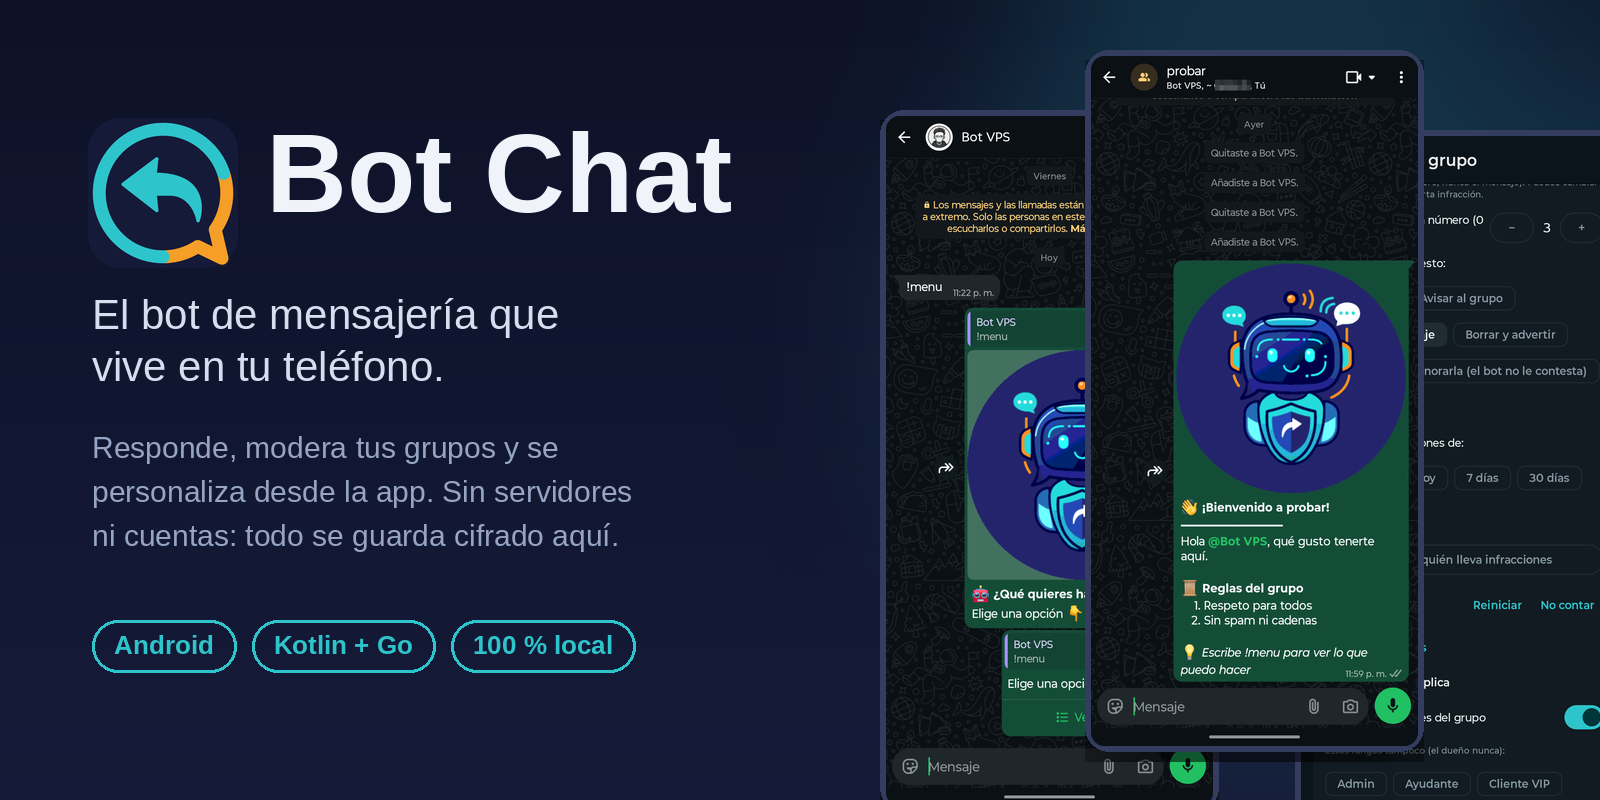
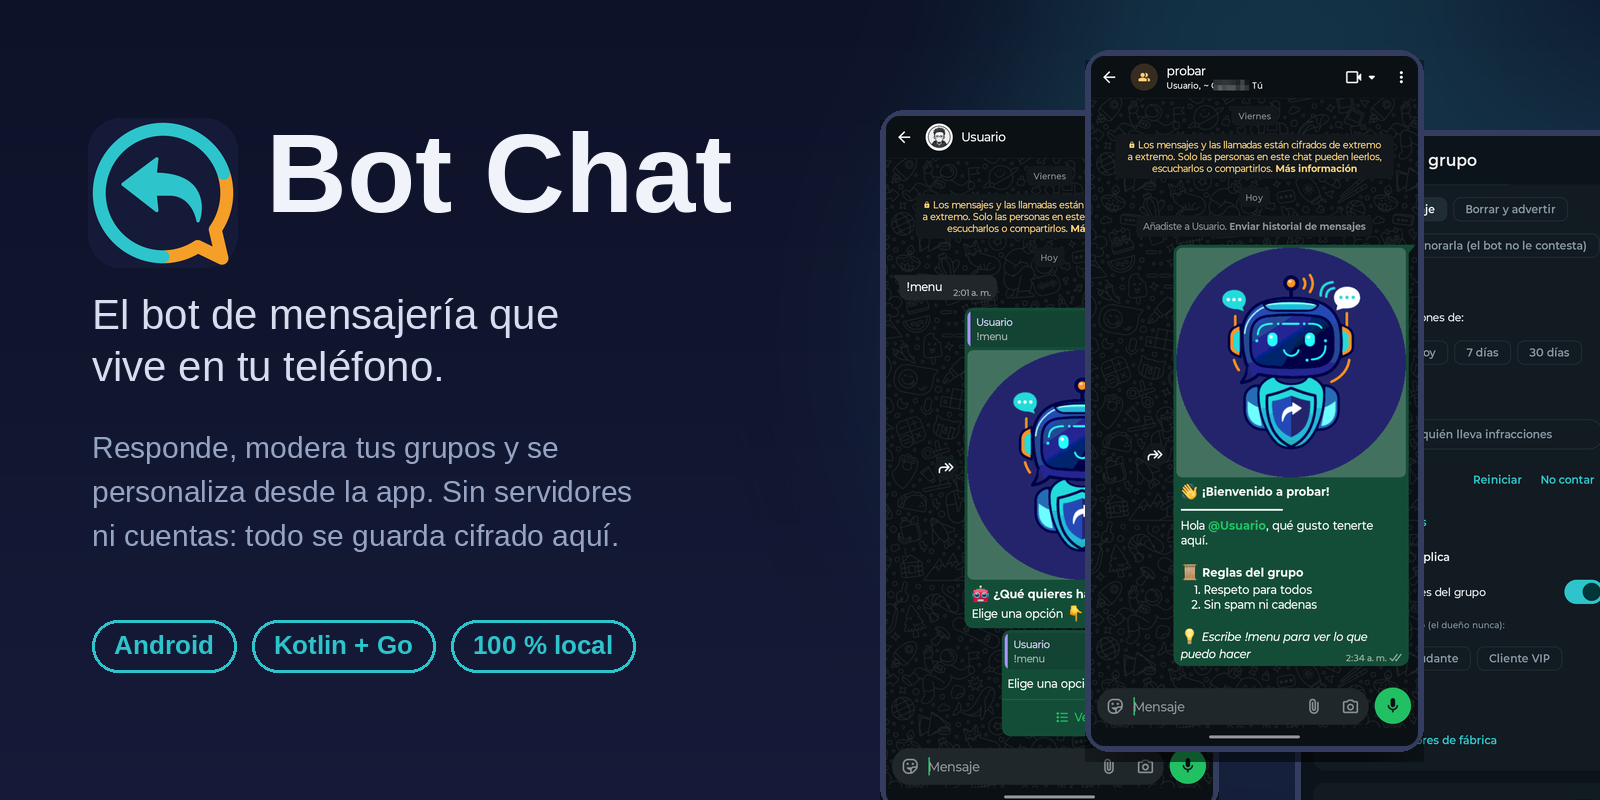
Cambiar nombre de una persona (propio, gana al de la agenda), capturas nuevas del README
- Nombre propio por persona: columna chats.nombre_propio (migración 26), API PersonaNombrePropio, botón «Cambiar nombre» en la ficha y en el perfil del miembro; se usa en la app y en {nombre} de los menús.
- Capturas del README rehechas con el chat limpio por comando, sin barra de estado ni metadatos, y sin las filas con números de otras personas.

Claude-Session: https://claude.ai/code/session_01Bp5Ynt75qnj33Tx8h86Hjt

diff --git a/app/src/main/java/com/botchat/app/ui/PantallaPersona.kt b/app/src/main/java/com/botchat/app/ui/PantallaPersona.kt
@@ -116,6 +116,7 @@ fun TarjetaPersona(botId: Long, jid: String, nombre: String, alAbrirDetalle: () 
                 else OutlinedButton({ haptica(Toque.Suave); dialogo = "silenciar" }, Modifier.testTag("silenciar_persona")) { Text("Ignorar") }
                 if (f.bloqueada) OutlinedButton({ haptica(Toque.Suave); hacer("El bot vuelve a atenderla") { Repo.desbloquearPersona(botId, jid) } }, Modifier.testTag("desbloquear_persona")) { Text("Desbloquear") }
                 else OutlinedButton({ haptica(Toque.Fuerte); dialogo = "bloquear" }, Modifier.testTag("bloquear_persona")) { Text("Bloquear en el bot") }
+                OutlinedButton({ haptica(Toque.Suave); dialogo = "nombre" }, Modifier.testTag("cambiar_nombre_persona")) { Text("Cambiar nombre") }
                 OutlinedButton({ haptica(Toque.Suave); dialogo = "advertir" }, Modifier.testTag("advertir_persona")) { Text("Advertir") }
                 OutlinedButton({ haptica(Toque.Suave); alAbrirDetalle() }, Modifier.testTag("abrir_advertencias_notas")) { Text("Notas y advertencias") }
                 OutlinedButton({ haptica(Toque.Suave); dialogo = "exportar" }, Modifier.testTag("exportar_persona")) { Text("Exportar datos") }
@@ -131,6 +132,7 @@ fun TarjetaPersona(botId: Long, jid: String, nombre: String, alAbrirDetalle: () 
             confirmButton = { TextButton({ dialogo = null; hacer("Listo: el bot la ignora") { Repo.bloquearPersona(botId, jid) } }, Modifier.testTag("confirmar_bloquear")) { Text("Bloquear", color = MaterialTheme.colorScheme.error) } },
             dismissButton = { TextButton({ dialogo = null }) { Text("Cancelar") } },
         )
+        "nombre" -> DialogoNombrePropio(nombre, f?.nombrePropio.orEmpty(), { dialogo = null }) { nuevo -> dialogo = null; hacer(if (nuevo.isBlank()) "Listo: vuelve su nombre de siempre" else "Listo: ahora se llama $nuevo") { Repo.nombrePropio(botId, jid, nuevo) } }
         "advertir" -> DialogoAdvertir(botId, jid, nombre) { dialogo = null; version++ }
         "exportar" -> DialogoExportar(botId, jid, nombre) { dialogo = null }
         "olvidar" -> DialogoOlvidar(botId, jid, nombre, { dialogo = null }, alOlvidada)
@@ -303,5 +305,15 @@ private fun DialogoOlvidar(botId: Long, persona: String, nombre: String, alCerra
             }, Modifier.testTag("confirmar_olvidar"), enabled = entiendo && !trabajando) { Text("Olvidar", color = if (entiendo) MaterialTheme.colorScheme.error else MaterialTheme.colorScheme.onSurfaceVariant) }
         },
         dismissButton = { TextButton(alCerrar, enabled = !trabajando) { Text("Cancelar") } },
+    )
+}
+
+/** Ponerle a una persona el nombre que se verá en toda la app y en los mensajes del bot. Vacío o «Quitar mi nombre» = el de la agenda. */
+@Composable
+internal fun DialogoNombrePropio(nombreActual: String, propio: String, alCerrar: () -> Unit, alGuardar: (String) -> Unit) {
+    HojaTexto(
+        titulo = "Cambiar nombre", inicial = propio, etiqueta = "nombre_propio", alCerrar = alCerrar, alAceptar = alGuardar,
+        ayuda = "Se verá así en la app y en los mensajes del bot ({nombre}). Ahora se ve como «$nombreActual». Déjalo vacío para volver al nombre de siempre.",
+        permiteVacio = true, maximo = 40, lineas = 1, botonRestaurar = if (propio.isNotBlank()) "Quitar mi nombre" else null,
     )
 }

diff --git a/app/src/test/java/com/botchat/app/pantallas/GruposUiTest.kt b/app/src/test/java/com/botchat/app/pantallas/GruposUiTest.kt
@@ -234,7 +234,7 @@ class GruposUiTest {
         regla.espera { motor.llamadas.any { it.contains("\"permitidos\":[\"youtube.com\"]") } }
         regla.esperaEtiqueta("permitido_item_youtube.com")
         nodo("permitido_item_youtube.com").performClick() // tocar el chip lo quita
-        regla.espera { motor.llamadas.last { it.startsWith("grupoFiltro:") }.contains("\"permitidos\":[]") }
+        regla.espera { motor.llamadas.lastOrNull { it.startsWith("grupoFiltro:") }?.contains("\"permitidos\":[]") == true }
         nodo("sw_filtro_palabras").performClick()
         regla.esperaEtiqueta("palabra_campo")
         nodo("palabra_campo").performTextInput("estafa")
@@ -274,12 +274,12 @@ class GruposUiTest {
         nodo("palabra_campo").performScrollTo().performTextInput("uno, dos; tres,  palabra3 , UNO")
         regla.esperaTexto("Agregar 3") // sin repetir: palabra3 ya estaba y UNO es igual a uno
         nodo("palabra_agregar").performClick()
-        regla.espera { motor.llamadas.last { it.startsWith("grupoFiltro:") }.contains("\"uno\",\"dos\",\"tres\"]") }
+        regla.espera { motor.llamadas.lastOrNull { it.startsWith("grupoFiltro:") }?.contains("\"uno\",\"dos\",\"tres\"]") == true }
         regla.esperaTexto("13 elementos")
         nodo("palabra_quitar_todas").performScrollTo().performClick()
         regla.esperaEtiqueta("palabra_confirmar_quitar")
         nodo("palabra_confirmar_quitar").performClick()
-        regla.espera { motor.llamadas.last { it.startsWith("grupoFiltro:") }.contains("\"palabras\":[]") }
+        regla.espera { motor.llamadas.lastOrNull { it.startsWith("grupoFiltro:") }?.contains("\"palabras\":[]") == true }
         regla.esperaTexto("0 elementos")
     }
 
@@ -297,7 +297,7 @@ class GruposUiTest {
         nodo("escala_dias_enlaces_30").performScrollTo().performClick()
         regla.espera { motor.llamadas.any { it.contains("\"escalaDias\":30") } }
         nodo("escala_desde_enlaces_menos").performScrollTo().performClick() // de 2 vuelve a 0
-        regla.espera { motor.llamadas.last { it.startsWith("grupoFiltro:") }.contains("\"escalaDesde\":0") }
+        regla.espera { motor.llamadas.lastOrNull { it.startsWith("grupoFiltro:") }?.contains("\"escalaDesde\":0") == true }
     }
 
     @Test fun lasInfraccionesSeVenSeReiniciaYSePuedeEximirAUnaPersona() {

diff --git a/app/src/main/java/com/botchat/app/datos/Motor.kt b/app/src/main/java/com/botchat/app/datos/Motor.kt
@@ -227,6 +227,7 @@ interface Motor {
 
     // Perfil de persona, actividad, lista de lo que envió, búsqueda en un chat, puntitos y exportar chat (0.6.0, E4).
     fun perfilPersona(bot: Long, persona: String): String
+    fun personaNombrePropio(bot: Long, persona: String, nombre: String) {}
     fun actividadPersona(bot: Long, persona: String): String
     fun mensajesDePersona(bot: Long, filtroJson: String, antesTs: Long, antesId: String, limite: Long): String
     fun buscarEnChat(bot: Long, chat: String, palabra: String, desde: Long, hasta: Long, antesTs: Long, antesId: String, limite: Long): String
@@ -598,6 +599,7 @@ object MotorGo : Motor {
     override fun pedirFotoPersona(bot: Long, persona: String, grupo: String, forzar: Boolean) = Wabot.pedirFotoPersona(bot, persona, grupo, forzar)
     override fun fotoPersona(bot: Long, persona: String) = Wabot.fotoPersona(bot, persona)
     override fun perfilPersona(bot: Long, persona: String) = Wabot.perfilPersona(bot, persona)
+    override fun personaNombrePropio(bot: Long, persona: String, nombre: String) = Wabot.personaNombrePropio(bot, persona, nombre)
     override fun actividadPersona(bot: Long, persona: String) = Wabot.actividadPersona(bot, persona)
     override fun mensajesDePersona(bot: Long, filtroJson: String, antesTs: Long, antesId: String, limite: Long) = Wabot.mensajesDePersona(bot, filtroJson, antesTs, antesId, limite)
     override fun buscarEnChat(bot: Long, chat: String, palabra: String, desde: Long, hasta: Long, antesTs: Long, antesId: String, limite: Long) = Wabot.buscarEnChat(bot, chat, palabra, desde, hasta, antesTs, antesId, limite)

diff --git a/app/src/main/java/com/botchat/app/ui/PerfilMiembro.kt b/app/src/main/java/com/botchat/app/ui/PerfilMiembro.kt
@@ -261,6 +261,7 @@ private fun BarraAccionesMiembro(botId: Long, jid: String, p: PerfilMiembroAdmin
     }
     Surface(tonalElevation = 3.dp, modifier = Modifier.testTag("barra_acciones_miembro")) {
         Row(Modifier.horizontalScroll(rememberScrollState()).navigationBarsPadding().padding(horizontal = Esp.s, vertical = Esp.s), horizontalArrangement = Arrangement.spacedBy(Esp.s), verticalAlignment = Alignment.CenterVertically) {
+            OutlinedButton({ haptica(Toque.Suave); pedir("nombre") }, Modifier.testTag("accion_nombre")) { Text("Cambiar nombre") }
             OutlinedButton({ haptica(Toque.Suave); pedir("advertir") }, Modifier.testTag("accion_advertir")) { Icon(Ico.Aviso, null, Modifier.size(18.dp)); Spacer(Modifier.width(4.dp)); Text("Advertir") }
             Box {
                 OutlinedButton({ haptica(Toque.Suave); if (p.silenciado) pedir("quitar_silencio") else menuSilencio = true }, Modifier.testTag("accion_silenciar")) {
@@ -297,6 +298,7 @@ private fun DialogosMiembro(botId: Long, jid: String, p: PerfilMiembroAdmin, dia
     }
     val dialogoActual = dialogo
     when (dialogoActual) {
+        "nombre" -> DialogoNombrePropio(m.titulo, "", cerrar) { nuevo -> cerrar(); hacer(if (nuevo.isBlank()) "Listo: vuelve su nombre de siempre" else "Listo: ahora se llama $nuevo") { Repo.nombrePropio(botId, m.persona, nuevo) } }
         "advertir" -> HojaTexto(
             "Advertir a ${m.titulo}", "", "motivo_advertir", { cerrar() },
             { t -> cerrar(); hacer("Advertencia puesta") { Repo.advertir(botId, m.persona, t, jid) } },

diff --git a/app/src/test/java/com/botchat/app/pantallas/PersonasUiTest.kt b/app/src/test/java/com/botchat/app/pantallas/PersonasUiTest.kt
@@ -55,6 +55,23 @@ class PersonasUiTest {
         regla.esperaTexto("Primera vez:", substring = true)
     }
 
+    @Test fun sePuedeCambiarElNombreDeUnaPersonaYQuitarlo() {
+        tarjeta()
+        regla.esperaEtiqueta("cambiar_nombre_persona")
+        regla.onNodeWithTag("cambiar_nombre_persona", useUnmergedTree = true).performClick()
+        regla.esperaEtiqueta("nombre_propio_campo")
+        assertFalse(hay("nombre_propio_fabrica")) // todavía no tiene nombre propio
+        regla.onNodeWithTag("nombre_propio_campo", useUnmergedTree = true).performTextInput("Usuario")
+        regla.onNodeWithTag("nombre_propio_aceptar", useUnmergedTree = true).assertIsEnabled().performClick()
+        regla.espera { llamo("nombrePropio:$ana:Usuario") }
+        // al volver a abrirlo trae el que ya tiene y deja quitarlo
+        regla.esperaEtiqueta("cambiar_nombre_persona")
+        regla.onNodeWithTag("cambiar_nombre_persona", useUnmergedTree = true).performClick()
+        regla.esperaEtiqueta("nombre_propio_fabrica")
+        regla.onNodeWithTag("nombre_propio_fabrica", useUnmergedTree = true).performClick()
+        regla.espera { llamo("nombrePropio:$ana:") && motor.llamadas.last { it.startsWith("nombrePropio:") } == "nombrePropio:$ana:" }
+    }
+
     @Test fun silenciarConDuracionYQuitarElSilencio() {
         tarjeta()
         regla.esperaEtiqueta("silenciar_persona")

diff --git a/app/src/main/java/com/botchat/app/datos/Personas.kt b/app/src/main/java/com/botchat/app/datos/Personas.kt
@@ -19,6 +19,8 @@ data class FichaPersona(
     val advertencias: Int, val notas: Int, val etiquetas: List<EtiquetaItem>,
     val primeraTs: Long, val ultimaTs: Long, val recibidos: Int, val enviados: Int, val grupos: Int,
     val rango: String, val rangoColor: String,
+    /** El nombre que el dueño le puso en la app ("" = ninguno). */
+    val nombrePropio: String = "",
 )
 
 data class AdvertenciaItem(val id: Long, val persona: String, val chat: String, val motivo: String, val ts: Long, val por: String, val tipoId: Long = 0, val caducaTs: Long = 0, val vigente: Boolean = true)
@@ -85,7 +87,7 @@ object JsonPersonas {
             silencio(o.optJSONObject("silencio")), o.optBoolean("bloqueada"), o.optBoolean("noMolestar"),
             o.optInt("advertencias"), o.optInt("notas"), List(et?.length() ?: 0) { etiqueta(et!!.getJSONObject(it)) },
             o.optLong("primeraTs"), o.optLong("ultimaTs"), o.optInt("recibidos"), o.optInt("enviados"), o.optInt("grupos"),
-            o.optString("rango"), o.optString("rangoColor"),
+            o.optString("rango"), o.optString("rangoColor"), o.optString("nombrePropio"),
         )
     }
 

diff --git a/app/src/test/java/com/botchat/app/pantallas/Apoyo.kt b/app/src/test/java/com/botchat/app/pantallas/Apoyo.kt
@@ -390,6 +390,10 @@ class MotorFalso : Motor {
     var personaFalla: String? = null
     private fun pFalla() { personaFalla?.let { throw IllegalStateException(it) } }
     override fun fichaPersona(bot: Long, persona: String) = fichaJson
+    override fun personaNombrePropio(bot: Long, persona: String, nombre: String) {
+        llamadas += "nombrePropio:$persona:$nombre"; pFalla()
+        fichaJson = JSONObject(fichaJson).put("nombrePropio", nombre).also { if (nombre.isNotBlank()) it.put("nombre", nombre) }.toString()
+    }
     override fun estadisticasPersona(bot: Long, persona: String, dias: Long) = estadisticasPersonaJson
     override fun silenciarPersona(bot: Long, persona: String, minutos: Long, motivo: String) {
         llamadas += "silenciar:$persona:$minutos:$motivo"; pFalla()

diff --git a/app/src/main/java/com/botchat/app/datos/Repo.kt b/app/src/main/java/com/botchat/app/datos/Repo.kt
@@ -253,6 +253,8 @@ object Repo {
 
     // Personas, chat y avisos para mí (bloque B)
     suspend fun ficha(bot: Long, persona: String) = io { JsonPersonas.ficha(motor.fichaPersona(bot, persona)) }
+    /** nombre "" = quitar el nombre propio y volver al de la agenda. */
+    suspend fun nombrePropio(bot: Long, persona: String, nombre: String) = io { motor.personaNombrePropio(bot, persona, nombre) }
     suspend fun estadisticasPersona(bot: Long, persona: String, dias: Int = 30) = io { JsonPersonas.estadisticas(motor.estadisticasPersona(bot, persona, dias.toLong())) }
     /** minutos 0 = para siempre. */
     suspend fun silenciarPersona(bot: Long, persona: String, minutos: Int, motivo: String = "") = io { motor.silenciarPersona(bot, persona, minutos.toLong(), motivo) }

diff --git a/app/src/test/java/com/botchat/app/pantallas/AdminGrupoUiTest.kt b/app/src/test/java/com/botchat/app/pantallas/AdminGrupoUiTest.kt
@@ -242,6 +242,16 @@ class AdminGrupoUiTest {
         regla.esperaTexto("Tú baneaste a Rosa")
     }
 
+    @Test fun desdeElPerfilDelMiembroSePuedeCambiarSuNombre() {
+        perfil(luis)
+        regla.esperaEtiqueta("accion_nombre")
+        toca("accion_nombre")
+        regla.esperaEtiqueta("nombre_propio_campo")
+        nodo("nombre_propio_campo").performTextInput("Usuario")
+        nodo("nombre_propio_aceptar").performClick()
+        regla.espera { llamo("nombrePropio:$luis:Usuario") }
+    }
+
     @Test fun advertirSilenciarYHacerAdminLlamanALaAPI() {
         perfil(luis)
         regla.esperaEtiqueta("accion_advertir")

diff --git a/go/internal/almacen/almacen.go b/go/internal/almacen/almacen.go
@@ -272,6 +272,7 @@ type Chat struct {
 	Publico     string
 	Negocio     string
 	Mostrado    string
+	Propio      string // nombre que el dueño le puso en la app ("" = el de la agenda o el público)
 	TelE164     string
 	TelMostrado string
 	PaisISO     string
@@ -291,19 +292,22 @@ func (c *Chat) Recalcular() {
 	c.Mostrado = identidad.NombreMostrado(identidad.Datos{
 		EsGrupo: c.EsGrupo, Asunto: c.Guardado, Guardado: c.Guardado, Publico: c.Publico, Negocio: c.Negocio, Telefono: tel.Mostrado,
 	})
+	if !c.EsGrupo && strings.TrimSpace(c.Propio) != "" {
+		c.Mostrado = strings.TrimSpace(c.Propio)
+	}
 }
 
 func (c *Chat) busqueda() string {
 	return identidad.TextoBusqueda(c.Mostrado, identidad.Telefono{E164: c.TelE164})
 }
 
-const colsChat = "jid,bot_id,es_grupo,nombre_guardado,nombre_publico,nombre_negocio,nombre_mostrado,telefono_e164,telefono_mostrado,pais_iso,foto_ruta,foto_id,foto_ts,ultimo_ts"
+const colsChat = "jid,bot_id,es_grupo,nombre_guardado,nombre_publico,nombre_negocio,nombre_mostrado,telefono_e164,telefono_mostrado,pais_iso,foto_ruta,foto_id,foto_ts,ultimo_ts,nombre_propio"
 
 func escanearChat(s interface{ Scan(...any) error }) (*Chat, error) {
 	var c Chat
 	var g int
 	if err := s.Scan(&c.JID, &c.BotID, &g, &c.Guardado, &c.Publico, &c.Negocio, &c.Mostrado, &c.TelE164, &c.TelMostrado, &c.PaisISO,
-		&c.FotoRuta, &c.FotoID, &c.FotoTS, &c.UltimoTS); err != nil {
+		&c.FotoRuta, &c.FotoID, &c.FotoTS, &c.UltimoTS, &c.Propio); err != nil {
 		return nil, err
 	}
 	c.EsGrupo = g == 1
@@ -327,14 +331,15 @@ func b2i(b bool) int {
 }
 
 func (a *Almacen) escribirChat(ex execer, c *Chat) error {
-	_, err := ex.Exec(`INSERT INTO chats(`+colsChat+`,busqueda,creado_ts) VALUES(?,?,?,?,?,?,?,?,?,?,?,?,?,?,?,?)
+	_, err := ex.Exec(`INSERT INTO chats(`+colsChat+`,busqueda,creado_ts) VALUES(?,?,?,?,?,?,?,?,?,?,?,?,?,?,?,?,?)
 		ON CONFLICT(jid,bot_id) DO UPDATE SET es_grupo=excluded.es_grupo, nombre_guardado=excluded.nombre_guardado,
 		nombre_publico=excluded.nombre_publico, nombre_negocio=excluded.nombre_negocio, nombre_mostrado=excluded.nombre_mostrado,
 		telefono_e164=excluded.telefono_e164, telefono_mostrado=excluded.telefono_mostrado, pais_iso=excluded.pais_iso,
 		foto_ruta=excluded.foto_ruta, foto_id=excluded.foto_id, foto_ts=excluded.foto_ts,
-		ultimo_ts=MAX(chats.ultimo_ts, excluded.ultimo_ts), busqueda=excluded.busqueda`,
+		ultimo_ts=MAX(chats.ultimo_ts, excluded.ultimo_ts), busqueda=excluded.busqueda,
+		nombre_propio=CASE WHEN excluded.nombre_propio<>'' THEN excluded.nombre_propio ELSE chats.nombre_propio END`,
 		c.JID, c.BotID, b2i(c.EsGrupo), c.Guardado, c.Publico, c.Negocio, c.Mostrado, c.TelE164, c.TelMostrado, c.PaisISO,
-		c.FotoRuta, c.FotoID, c.FotoTS, c.UltimoTS, c.busqueda(), time.Now().Unix())
+		c.FotoRuta, c.FotoID, c.FotoTS, c.UltimoTS, c.Propio, c.busqueda(), time.Now().Unix())
 	if err == nil {
 		a.nombres.invalidaContacto(c.BotID, c.JID) // cambió el contacto o su nombre
 	}
@@ -400,6 +405,9 @@ func (a *Almacen) FusionarChat(botID int64, desde, hasta string) error {
 	}
 	if dest.FotoRuta == "" {
 		dest.FotoRuta, dest.FotoID, dest.FotoTS = origen.FotoRuta, origen.FotoID, origen.FotoTS
+	}
+	if dest.Propio == "" {
+		dest.Propio = origen.Propio
 	}
 	if origen.UltimoTS > dest.UltimoTS {
 		dest.UltimoTS = origen.UltimoTS

diff --git a/go/internal/almacen/personas.go b/go/internal/almacen/personas.go
@@ -409,6 +409,7 @@ type Ficha struct {
 	Persona      string     `json:"persona"`
 	Alias        []string   `json:"alias"`
 	Nombre       string     `json:"nombre"`
+	NombrePropio string     `json:"nombrePropio"` // el que le puso el dueño en la app ("" = ninguno)
 	Telefono     string     `json:"telefono"`
 	Silencio     *Silencio  `json:"silencio"`
 	Bloqueada    bool       `json:"bloqueada"`
@@ -446,6 +447,9 @@ func (a *Almacen) FichaDe(botID int64, persona string, ahora time.Time) (*Ficha,
 		if c, _ := a.ObtenerChat(botID, x); c != nil && !c.EsGrupo {
 			if f.Nombre == "" {
 				f.Nombre = c.Mostrado
+			}
+			if f.NombrePropio == "" {
+				f.NombrePropio = c.Propio
 			}
 			if f.Telefono == "" {
 				f.Telefono = c.TelMostrado
@@ -871,4 +875,39 @@ func (a *Almacen) LimpiarExportes(botID int64, horas int, ahora time.Time) {
 			_ = os.Remove(filepath.Join(abs, e.Name()))
 		}
 	}
+}
+
+// FijarNombrePropio le pone a la persona el nombre que se verá en toda la app y en los mensajes del bot ({nombre}). Con "" vuelve al nombre
+// de la agenda o al público. Vale para todas las formas de la persona (teléfono y LID).
+func (a *Almacen) FijarNombrePropio(botID int64, persona, nombre string) error {
+	nombre = strings.Join(strings.Fields(nombre), " ")
+	if len([]rune(nombre)) > 40 {
+		return errors.New("el nombre es muy largo (máximo 40 letras)")
+	}
+	canon := a.ResolverPersona(botID, persona)
+	if canon == "" || canon == PersonaDueno {
+		return errors.New("falta la persona")
+	}
+	hecho := false
+	for _, x := range a.formas(botID, canon) {
+		c, _ := a.ObtenerChat(botID, x)
+		if c == nil || c.EsGrupo {
+			continue
+		}
+		hecho = true
+		if _, err := a.ActualizarChat(botID, x, false, func(c *Chat) { c.Propio = nombre }); err != nil {
+			return err
+		}
+		if nombre == "" { // la escritura normal no borra un nombre propio ya guardado: se quita aparte
+			if _, err := a.db.Exec(`UPDATE chats SET nombre_propio='' WHERE bot_id=? AND jid=?`, botID, x); err != nil {
+				return err
+			}
+		}
+	}
+	if !hecho {
+		return errors.New("todavía no hay un chat con esa persona")
+	}
+	a.avisa("personas")
+	a.avisa("persona:" + canon)
+	return nil
 }

diff --git a/go/internal/almacen/personas_test.go b/go/internal/almacen/personas_test.go
@@ -594,3 +594,40 @@ func TestEliminarBotLimpiaLasTablasNuevas(t *testing.T) {
 		}
 	}
 }
+
+func TestNombrePropioGanaAlDeLaAgendaYSeQuita(t *testing.T) {
+	a := nuevo(t)
+	const p = "5215500001111@s.whatsapp.net"
+	if _, err := a.ActualizarChat(1, p, false, func(c *Chat) { c.Guardado, c.TelE164 = "Bot VPS", "+5215500001111" }); err != nil {
+		t.Fatal(err)
+	}
+	if err := a.FijarNombrePropio(1, p, "  Usuario  "); err != nil {
+		t.Fatal(err)
+	}
+	if c, _ := a.ObtenerChat(1, p); c.Mostrado != "Usuario" || c.Propio != "Usuario" || a.NombreDePersona(1, p) != "Usuario" {
+		t.Fatalf("debía mostrar el nombre propio: %+v", c)
+	}
+	// un cambio de nombre en la agenda o el público no lo pisa
+	if _, err := a.ActualizarChat(1, p, false, func(c *Chat) { c.Guardado, c.Publico = "Otro nombre", "Otro público" }); err != nil {
+		t.Fatal(err)
+	}
+	if c, _ := a.ObtenerChat(1, p); c.Mostrado != "Usuario" || c.Guardado != "Otro nombre" {
+		t.Fatalf("el nombre propio se conserva: %+v", c)
+	}
+	if f, _ := a.FichaDe(1, p, time.Now()); f.NombrePropio != "Usuario" || f.Nombre != "Usuario" {
+		t.Fatalf("la ficha lo trae: %+v", f)
+	}
+	// se encuentra buscando por el nombre nuevo
+	if err := a.FijarNombrePropio(1, p, ""); err != nil {
+		t.Fatal(err)
+	}
+	if c, _ := a.ObtenerChat(1, p); c.Mostrado != "Otro nombre" || c.Propio != "" {
+		t.Fatalf("al quitarlo vuelve el de la agenda: %+v", c)
+	}
+	if err := a.FijarNombrePropio(1, p, strings.Repeat("x", 41)); err == nil {
+		t.Fatal("un nombre muy largo debe rechazarse")
+	}
+	if err := a.FijarNombrePropio(1, "5215509998888@s.whatsapp.net", "Nadie"); err == nil {
+		t.Fatal("sin chat no hay a quién ponerle nombre")
+	}
+}
